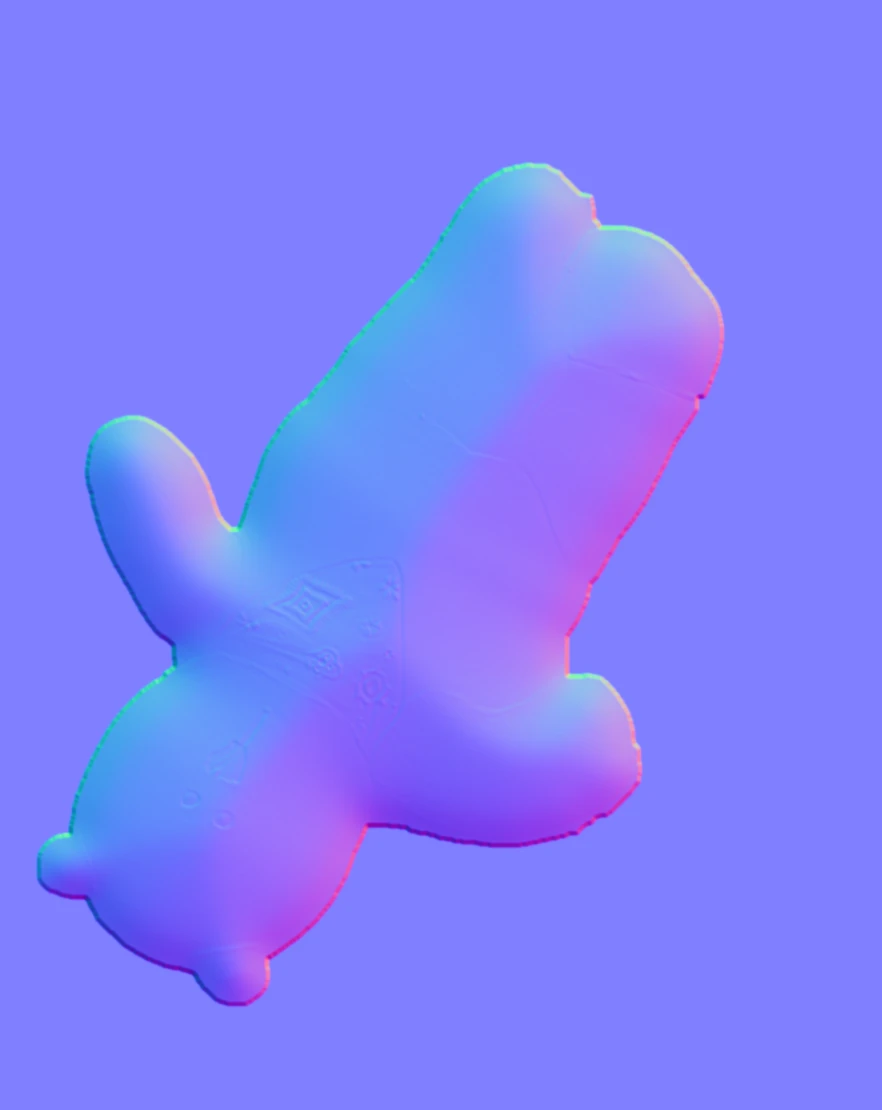
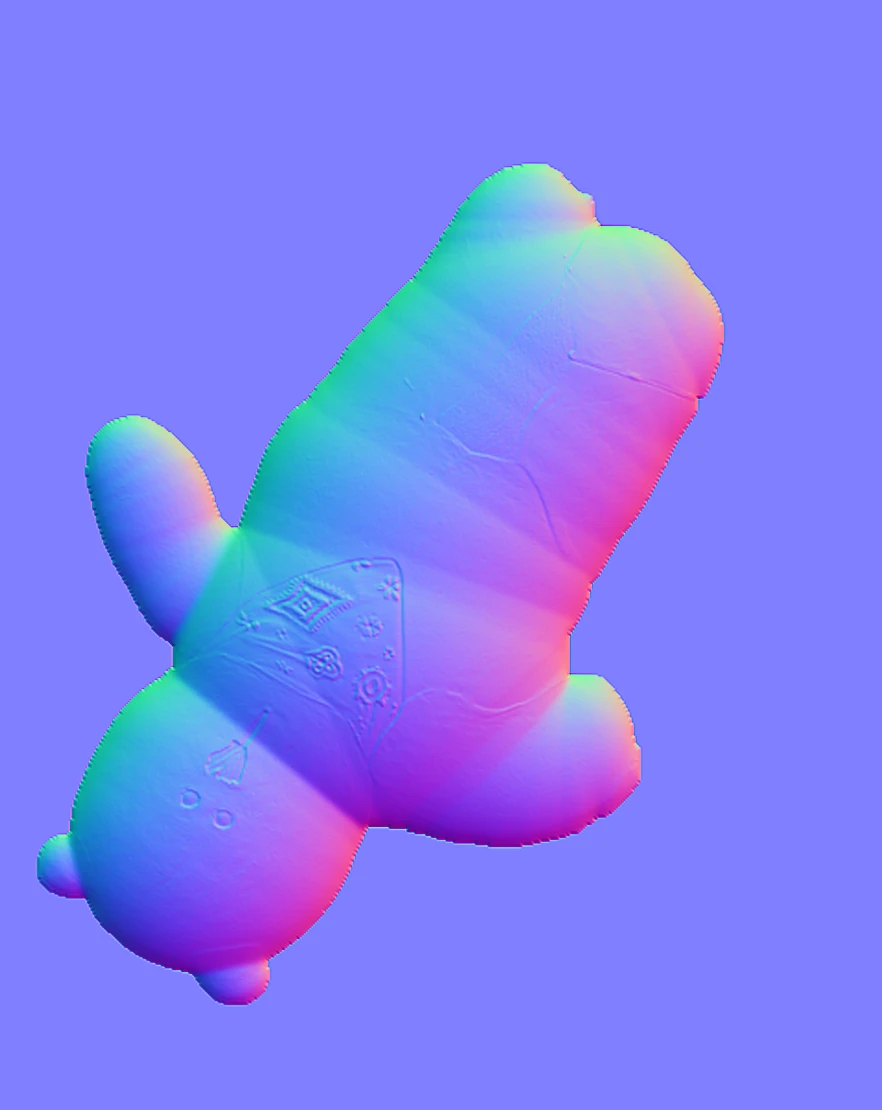
MUCH LOVED: 인형 입체를 둥근 단면으로 다시 만듦(머리는 공, 팔다리·귀는 원통, 인형마다 실제 두께)
Claude-Session: https://claude.ai/code/session_012fgrQSuz8bdMe6fYoW4Pch

Changed region(s): [[0.0306, 0.1225, 0.8265, 0.9189], [0.4286, 0.5207, 0.4898, 0.582]]

diff --git a/js/muchloved.js b/js/muchloved.js
@@ -192,11 +192,11 @@ function tex(u, color) {
   if (!texCache.has(u)) texCache.set(u, new Promise((r) => loader.load(u, (t) => { if (color) { t.colorSpace = THREE.SRGBColorSpace; t.anisotropy = 4; } r(t); }, undefined, () => r(null))));
   return texCache.get(u);
 }
-const DEPTH = 0.36, BACK = 0.3, MAX = THREE.MathUtils.degToRad(22), TURN = THREE.MathUtils.degToRad(42);
+const DEPTH = 0.36, BACK = 0.3, FRONT_K = 0.8, BACK_K = 0.7, MAX = THREE.MathUtils.degToRad(22), TURN = THREE.MathUtils.degToRad(42);
 
 // 셰이더: 표준 재질에 자국 지도(R 손때 · G 해진 곳 · B 눌림)와 누르는 자리(uPress)를 더함
 function wearMaterial(d) {
-  const m = new THREE.MeshStandardMaterial({ map: d.col, displacementMap: d.dep, normalMap: d.nor, displacementScale: DEPTH, alphaTest: 0.5, roughness: 0.82, metalness: 0, side: THREE.DoubleSide });
+  const m = new THREE.MeshStandardMaterial({ map: d.col, displacementMap: d.dep, normalMap: d.nor, displacementScale: d.dz, alphaTest: 0.5, roughness: 0.82, metalness: 0, side: THREE.DoubleSide });
   m.onBeforeCompile = (sh) => {
     sh.uniforms.uWear = { value: d.wearTex };
     sh.uniforms.uPress = { value: d.press };
@@ -241,12 +241,16 @@ function wearMaterial(d) {
 // 인형 (가까워지면 한 번 만들어 둠, 자국은 페이지를 떠날 때까지 남음)
 const dolls = new Map(); // id → doll (만들어진 것)
 const making = new Map(); // id → Promise
+let _th = null;
+const thick = () => _th || (_th = fetch(A + 'r/depth.json?v=1').then((r) => r.json()).catch(() => ({})));
 function makeDoll(id) {
   if (making.has(id)) return making.get(id);
   const p = (async () => {
-    const [col, dep, nor] = await Promise.all([tex(A + `r/${id}_color.webp`, 1), tex(A + `r/${id}_depth.png`), tex(A + `r/${id}_normal.webp`)]);
+    const [col, dep, nor, TH] = await Promise.all([tex(A + `r/${id}_color.webp`, 1), tex(A + `r/${id}_depth.png`), tex(A + `r/${id}_normal.webp`), thick()]);
     if (!col) return null;
     const asp = col.image.width / col.image.height;
+    // 인형마다 실제 두께(둥근 단면, tools/muchloved-relief/relief2.py) — 없으면 예전 값
+    const th = TH[id] || 0.18, dz = th * FRONT_K, bz = th * BACK_K;
     const wc = document.createElement('canvas'); wc.width = 256; wc.height = Math.round(256 / asp);
     const wx = wc.getContext('2d', { willReadFrequently: true }); wx.fillStyle = '#000'; wx.fillRect(0, 0, wc.width, wc.height);
     const wearTex = new THREE.CanvasTexture(wc);
@@ -257,11 +261,11 @@ function makeDoll(id) {
     const grid = new Uint8Array(mc.width * mc.height);
     for (let y = 0; y < mc.height; y++) for (let x = 0; x < mc.width; x++) if (md[(y * mc.width + x) * 4 + 3] > 200) { inside.push([(x + 0.5) / mc.width, 1 - (y + 0.5) / mc.height]); grid[y * mc.width + x] = 1; }
     const isIn = (u, v) => { const x = Math.floor(u * mc.width), y = Math.floor((1 - v) * mc.height); return x >= 0 && y >= 0 && x < mc.width && y < mc.height && grid[y * mc.width + x] === 1; };
-    const d = { id, mode: MODE[id], col, dep, nor, asp, wc, wx, wearTex, inside, isIn, press: new THREE.Vector4(0.5, 0.5, 0, asp), pull: new THREE.Vector4(0.5, 0.5, 0, 0), seeds: [], stats: { dirt: 0, tear: 0, flat: 0 }, touched: false, rz: 0, rollT: 0, hug: 0, hugT: 0, out: 0, outT: 0, call: 0, n: 0, m: 0, note: '' };
+    const d = { id, mode: MODE[id], col, dep, nor, asp, dz, bz, wc, wx, wearTex, inside, isIn, press: new THREE.Vector4(0.5, 0.5, 0, asp), pull: new THREE.Vector4(0.5, 0.5, 0, 0), seeds: [], stats: { dirt: 0, tear: 0, flat: 0 }, touched: false, rz: 0, rollT: 0, hug: 0, hugT: 0, out: 0, outT: 0, call: 0, n: 0, m: 0, note: '' };
     const mesh = new THREE.Mesh(new THREE.PlaneGeometry(asp, 1, 200, Math.max(64, Math.round(200 / asp))), wearMaterial(d));
     mesh.castShadow = true;
-    mesh.customDepthMaterial = new THREE.MeshDepthMaterial({ depthPacking: THREE.RGBADepthPacking, map: col, alphaTest: 0.5, displacementMap: dep, displacementScale: DEPTH });
-    const back = backMesh(col, dep, asp);
+    mesh.customDepthMaterial = new THREE.MeshDepthMaterial({ depthPacking: THREE.RGBADepthPacking, map: col, alphaTest: 0.5, displacementMap: dep, displacementScale: d.dz });
+    const back = backMesh(col, dep, asp, d.bz);
     const spin = new THREE.Group(); spin.add(mesh, back);
     const g = new THREE.Group(); g.add(spin); g.visible = false; scene.add(g);
     const box = SOFA.includes(id) ? sofaCatcher(asp, MODE[id] === 'pull') : frameBox(asp);
@@ -274,7 +278,7 @@ function makeDoll(id) {
 }
 
 // 뒷면: 앞면 사진을 흐리게(얼굴·무늬가 사라진 천 뒷모습) + 깊이를 뒤로 → 앞면과 가장자리에서 만나 닫힌 몸통
-function backMesh(col, dep, asp) {
+function backMesh(col, dep, asp, bz) {
   const im = col.image, w = 512, h = Math.round(512 / asp);
   const c = document.createElement('canvas'); c.width = w; c.height = h; const x = c.getContext('2d');
   x.filter = `blur(${Math.round(w * 0.022)}px) saturate(0.8) brightness(0.78)`; x.drawImage(im, 0, 0, w, h); x.filter = 'none';
@@ -288,7 +292,7 @@ function backMesh(col, dep, asp) {
   const pos = geo.attributes.position, uv = geo.attributes.uv;
   for (let i = 0; i < pos.count; i++) {
     const u = uv.getX(i), v = uv.getY(i), px = Math.round(u * sx), py = Math.round((1 - v) * sy);
-    const z = dd[(py * (sx + 1) + px) * 4] / 255; pos.setZ(i, -Math.pow(z, 0.85) * BACK);
+    const z = dd[(py * (sx + 1) + px) * 4] / 255; pos.setZ(i, -z * bz);
   }
   geo.computeVertexNormals();
   const m = new THREE.Mesh(geo, new THREE.MeshStandardMaterial({ map: bt, alphaTest: 0.5, roughness: 0.92, side: THREE.DoubleSide }));
@@ -388,7 +392,7 @@ let pi = 0;
 const tmpV = new THREE.Vector3();
 function puff(d, u, v, n, fall = false) {
   for (let k = 0; k < n; k++) {
-    tmpV.set((u - 0.5) * d.w, (v - 0.5) * d.h, DEPTH * 0.6); d.mesh.localToWorld(tmpV);
+    tmpV.set((u - 0.5) * d.w, (v - 0.5) * d.h, d.dz * 0.6); d.mesh.localToWorld(tmpV);
     pPos[pi * 3] = tmpV.x; pPos[pi * 3 + 1] = tmpV.y; pPos[pi * 3 + 2] = tmpV.z;
     pVel[pi].set((Math.random() - 0.5) * 0.02, fall ? -0.004 - Math.random() * 0.01 : 0.008 + Math.random() * 0.02, 0.01 + Math.random() * 0.02);
     pLife[pi] = 1; pi = (pi + 1) % PN;

diff --git a/muchloved.html b/muchloved.html
@@ -33,6 +33,6 @@
   <main id="ml"></main>
   <div id="ml-sleep" class="ml-sleep" hidden><p class="ml-sleep-t">00:00</p><p class="ml-sleep-h">들어 올리면 깨어나요</p></div>
   <video id="ml-cam" playsinline muted hidden></video>
-  <script type="module" src="js/muchloved.js?v=7"></script>
+  <script type="module" src="js/muchloved.js?v=8"></script>
 </body>
 </html>

diff --git a/tools/muchloved-relief/relief2.py b/tools/muchloved-relief/relief2.py
@@ -1,0 +1,60 @@
+# 인형 입체 v2 (2026-11-21): 둥근 단면으로 부풀리기
+# 예전(relief.py)은 거리 지도의 제곱근을 흐려서 가운데가 뾰족한 언덕(지붕 모양)이었음.
+# 이번엔 인형 안쪽 모든 점에 '그 자리에 들어가는 가장 큰 공'을 놓고 그 공들을 합친 높이를 씀:
+#   h(x)^2 = max_q ( d(q)^2 - |x-q|^2 )   (d = 테두리까지 거리)
+# → 머리는 공, 팔·다리·귀는 원통처럼 둥글고, 목·팔이 붙는 곳은 자연스럽게 잘록해짐.
+# 높이는 픽셀 단위 그대로라 폭과 두께의 비율이 실제 둥근 물체와 같음(scale = hmax / 이미지 높이).
+# 쓰는 법: python3 relief2.py assets/muchloved/r  (각 *_color.webp의 알파를 모양으로 씀, depth·normal·depth.json을 새로 씀)
+import cv2, numpy as np, sys, json, glob, os
+
+def maxplus_1d(f):
+    # 행마다 g[x] = max_q f[q] - (x-q)^2  (벡터 계산, 행 길이 ≤ 600)
+    n = f.shape[1]
+    x = np.arange(n, dtype=np.float32)
+    D = (x[:, None] - x[None, :]) ** 2            # (x, q)
+    out = np.empty_like(f)
+    for i in range(0, f.shape[0], 32):
+        blk = f[i:i + 32]                          # (b, q)
+        out[i:i + 32] = (blk[:, None, :] - D[None]).max(axis=2)
+    return out
+
+def inflate(mask):
+    d = cv2.distanceTransform(mask, cv2.DIST_L2, 5).astype(np.float32)
+    f = np.where(mask > 0, d * d, -1e9).astype(np.float32)
+    g = maxplus_1d(f)          # 가로
+    g = maxplus_1d(g.T).T      # 세로
+    return np.sqrt(np.clip(g, 0, None)) * (mask > 0)
+
+def run(folder):
+    scales = {}
+    for cp in sorted(glob.glob(os.path.join(folder, '*_color.webp'))):
+        id_ = os.path.basename(cp)[:-len('_color.webp')]
+        col = cv2.imread(cp, cv2.IMREAD_UNCHANGED)
+        H, W = col.shape[:2]
+        w = 480; h = int(round(w * H / W))
+        a = cv2.resize(col[:, :, 3], (w, h), interpolation=cv2.INTER_AREA)
+        m = (a > 127).astype(np.uint8)
+        m = cv2.morphologyEx(m, cv2.MORPH_OPEN, np.ones((3, 3), np.uint8))
+        z = inflate(m)
+        z = cv2.GaussianBlur(z, (0, 0), 1.6) * m       # 공 사이 이음매만 살짝 고르게
+        # 천의 주름·솔기: 사진 밝기의 잔결을 아주 조금
+        g = cv2.cvtColor(cv2.resize(col[:, :, :3], (w, h), interpolation=cv2.INTER_AREA), cv2.COLOR_BGR2GRAY).astype(np.float32) / 255
+        hp = g - cv2.GaussianBlur(g, (0, 0), 4)
+        zmax = float(z.max())
+        z = np.clip(z + hp * zmax * 0.025 * (z > zmax * 0.05), 0, None) * m
+        zmax = float(z.max())
+        scales[id_] = round(zmax / h, 4)               # 인형 높이 1에 대한 가장 두꺼운 곳(반쪽)
+        zn = z / zmax
+        dw = 512; dh = int(round(dw * H / W))
+        cv2.imwrite(os.path.join(folder, f'{id_}_depth.png'), (cv2.resize(zn, (dw, dh), interpolation=cv2.INTER_LINEAR) * 255).astype(np.uint8))
+        # 노멀: 실제 굴곡 그대로(앞면 두께 0.85배에 맞춤)
+        zs = cv2.resize(z * 0.85 * (W / w), (W, H), interpolation=cv2.INTER_CUBIC)
+        gx = cv2.Sobel(zs, cv2.CV_32F, 1, 0, ksize=3); gy = cv2.Sobel(zs, cv2.CV_32F, 0, 1, ksize=3)
+        n = np.dstack([-gx, gy, np.full_like(gx, 8)]); n /= np.linalg.norm(n, axis=2, keepdims=True)
+        nm = ((n * 0.5 + 0.5) * 255).astype(np.uint8)
+        cv2.imwrite(os.path.join(folder, f'{id_}_normal.webp'), cv2.cvtColor(nm, cv2.COLOR_RGB2BGR), [cv2.IMWRITE_WEBP_QUALITY, 90])
+        print(id_, W, H, 'thick', scales[id_])
+    json.dump(scales, open(os.path.join(folder, 'depth.json'), 'w'), indent=1)
+
+if __name__ == '__main__':
+    run(sys.argv[1])

diff --git a/CLAUDE.md b/CLAUDE.md
@@ -20,7 +20,7 @@
 | `bitssal.html` + `js/bitssal.js` | A-003 빛쌀 단독 스크롤 스토리 (캔버스 쌀알 1,900개, 15장면). **PART 1 순이의 이야기**(prologue→life→hunger→demand→street→spread→erased→boundary→mine→truth→light — **2026-11-18 소유자: 광주(1980 주먹밥) 장 'share'는 뺌**, 장 번호는 빛이 10, 글·체험 코드는 파일에 남겨 둠: 이야기·조작만, 기록·사진·영상 없음) → **PART 2 작품과 기록**(work: 조형물·사진·작품 영상 / records: 짧은 기록 7장 / archive). **장마다 읽기 → 체험 순서**(2026-11-14): 장 표지(번호·제목, 이때 쌀알·그림은 거의 꺼짐) → 이야기 카드(읽는 동안 얼굴만 그리고 장면 그림은 흐리게, 숫자·라벨 숨김, 조작·센서는 받지 않음) → 한 화면 띄우고 '체험' 카드(이때부터 조작). 예전 떠오르는 장 제목(chap-flash)은 없앰. **하나씩, 여유 있게**(소유자 요청): 장 표지는 번호→제목→선 차례로, 이야기 카드는 쌀 얼굴이 먼저 그려지고(1.4초) 문단이 함께 나타남(2문단 정도는 한 번에 괜찮음, 소유자), 읽을 시간(글자 수로 4~14초)이 지나야 체험이 열림(`runSeq`, 카드가 화면 밖이면 멈춤). **한 번에 하나만**: 얼굴을 그리는 동안 다른 쌀알·장면 그림은 거의 끔(97%), 장 표지 때도 거의 끔, 위로 지나간 장 표지·이야기 카드는 `.past`로 사라짐. **체험 카드는 바로 앞 이야기를 다 읽어야 열림**(`.card.play.locked` → `opened`, 잠긴 동안 조작·센서 안 받음, '위의 이야기를 다 읽으면 체험이 열려요'). 카드 사이 간격·장 끝 여백을 넓힘(종류가 바뀔 때 크게: 표지→이야기 0.55화면, 이야기→다음 0.9, 체험→다음 0.6, 다른 카드→이야기 0.6). **휴대폰(앱)만: 쌀알이 끊기지 않고 모양을 바꿔 흐름**(2026-11-16, PC는 예전대로): 첫 화면은 쌀알로 된 《빛쌀》 조형물(`sculpt`, 상단 머리와 아래 글 사이에 맞춤, 유리 테두리 `glassW` 안에서만) + 아래 글('한 톨의 쌀알에 얽힌 이야기 / 아흔 살 순이가 대구에서 겪은 일', 4개 언어) → 흩어짐(`dust`) → 아흔 살 순이 얼굴 → '한 그릇 더' → 흩어짐 → **장 제목(이때는 흩어진 채) → 제목이 지나가면 그 장의 모양(`SHAPE_OF`, `js/bitssal-shapes.js`) → 그 모양이 그대로 인물 얼굴로**(얼굴 없는 장은 글이 올라올 때까지 모양 유지) → 글 → 흩어짐 → 체험 카드가 아래에 붙으면(`.docked`) 체험. 모양: 밥상(table)·쌀독(jar)·쌀 한 톨(grain)·등잔(lamp, 켜지 않은)·지도(spread)·경찰(police, 이목구비 없음)·고무신(shoes)·밥 한 그릇(bowl)·7(seven)·주먹밥(riceball)·불꽃(flame). 모드 `mm`: title > face > play > shape > intro > dust. 다른 글('4년 뒤' 등)이 보이면 모양을 띄우지 않음. 장 표지 → 이야기 사이 0.9화면, 다른 글 → 이야기도 0.9화면. **글 뒤 어두운 바탕·테두리 없음**(글자 그림자만, 붙은 체험 카드 아래만 옅은 그라데이션). **휴대폰 체험 바뀜**(`MOB`, 문구 `mia`): ①밥상 = 폰을 주걱처럼 숙였다 들면(`watchScoop`, 기울기 tiltY 흔들림) 가운데 솥에서 밥을 떠 그릇에 담음(3번에 한 그릇, 솥을 눌러도 됨) ②쌀독 = 큰 쌀독만, 흔들어 털면 바닥에 쌀이 쌓임 ④밤 = 새벽에 오빠 얼굴 겹치던 것 뺌 ⑥낮은 목소리 = 체포영장 같은 옛 문서(일러스트, '문서는 이해를 돕기 위한 일러스트')가 먼지에 덮여 있다가 후 불기(마이크)·문지르기로 드러남. **광산부터 줄임**: 광산(손전등)·주먹밥(돌리기) 체험 카드 없음, 빛은 누르기·들어 올리기만(마이크·AR 버튼 뺌), 7월은 그대로. 작품 장 조형물은 기울이면 흐르는 속도만 바뀜(밀림·흔들림 없음). **기억을 위한 한 문장**: 남기면 글자 하나하나가 입력칸에서 불빛처럼 떠올라 빛 장면 하늘(`.mem-sky`, 최근 5문장)에 머묾(PC도 같음, 캔버스 빛 점은 뺌). **마지막 '전시 행성 나가기'**(예전 'ARTMOS 행성계로 돌아가기'가 #story의 pointer-events 때문에 안 눌렸음): 앱 안이면 `postMessage({type:'artmos:close-exhibit'})` → `app.js`가 전시를 닫음, 웹이면 홈으로. **스크롤 끊김 줄이기**(2026-11-17): 쌀알은 색·크기별로 한 번 그려 둔 그림(`grainSprite`)을 회전해서 찍기만 함(매 프레임 도형 1,900개를 새로 그리지 않음, 다 찍은 뒤 `gReset()`), 화면 밖·안 보이는 쌀알은 건너뜀, 흩어진 쌀알은 2/3만, 휴대폰 캔버스는 1.5배 해상도, 주소창 때문에 높이만 조금 바뀌는 resize는 무시(캔버스·카드 다시 배치 안 함), 휴대폰은 화면 전체 필름 입자 애니메이션 멈춤·글자 그림자 한 겹. 측정(휴대폰 크기, CPU 4배 느리게): 쌀알 그리기 JS 프레임당 약 21ms → 11ms. **스크롤 속도 맞춤**(2026-11-17 소유자: 빈칸 줄이기): 휴대폰만 카드 사이 빈칸을 줄임(`GAP_M`: 장 표지→얼굴 이야기 0.35·얼굴 없는 이야기 0.55, 이야기→다음 0.4, 체험→다음 0.4, 체험 뒤 0.6, 기본 간격 0.07, 장면 기본 길이 ×0.75, 얼굴 자리 `.st-stage` 82→70svh — 얼굴 크기는 화면 폭으로 정해져 그대로) → 휴대폰 전체 길이 79화면 → 약 56화면(390px), PC는 그대로 68화면. 붙은 체험 카드는 붙기 전 높이(`_natH`)로 배치해 아래가 들썩이지 않게. 장면·카드 위치는 배치할 때 한 번 재 두고(`GEO`, `cacheGeo()`, `rect(el)`) 프레임마다는 scrollY만 빼서 씀(매 프레임 getBoundingClientRect 17곳 → 0). 쌀알 움직임은 프레임 길이로 보정(`FR`, 120Hz·느린 프레임에서도 같은 빠르기)하고 빨리 스크롤하면(`SCR`, 1.5화면/초면 최대) 더 빨리 모여 글을 바로 따라옴. 진행 막대는 width 대신 transform scaleX. 첫 장면(prologue)은 기본 길이를 줄이지 않음(줄이면 아래 글이 올라가 조형물이 상단 머리와 겹침). 붙은 체험 카드는 가로 스크롤 금지(`overflow-x: hidden`, 예전 그라데이션 조각이 카드 밖으로 나가 아이폰에서 글이 옆으로 밀렸음), 바탕 그라데이션은 카드 안에. 맨 위·아래에서 당길 때 출렁임은 `overscroll-behavior-y: none`. **얼굴·글 한 화면 + 장 모양 머물기**(2026-11-18 소유자): 얼굴 자리 `.st-stage` 70→44svh, 얼굴 크기는 `min(얼굴 자리 높이/2.2, 화면 폭×0.42)`라 얼굴(위아래 약 2배)이 자리 안에 맞고 아래 글 상자와 한 화면에 같이 보임. 장 제목이 지나 나온 장 모양은 적어도 `SHAPE_MIN`(2.4초) 머문 뒤 얼굴·글로 바뀜(빨리 내려도 한 번은 보여 줌, 장마다 한 번), 모양→얼굴 바뀜은 약 1.4초로 천천히, 장 표지→얼굴 이야기 간격 0.35→0.5. **상단 바 위치(2026-11-18)**: 앱 안 전시 틀(iframe)에서는 아이폰이 상태 표시줄 높이(`env(safe-area-inset-top)`)를 0으로 줘서 상단 바가 시계 줄과 겹쳤음 → 빛쌀은 `--sat` 변수로 상단 바·진행 막대·목차·HUD 위치를 잡고, 앱 안 아이폰이면 `bitssal.js` 첫머리가 화면 높이로 어림(852 이상 59px·812 이상 47px·그 밖 20px), 앱이 `postMessage({type:'artmos:safe', top})`로 정확한 값을 보내면 그걸 씀(`app.js` 전시 틀 load 때 보냄 — 앱 틀이라 다음 앱 빌드부터). `bitssal.html` viewport에 `viewport-fit=cover`. **얼굴 없는 이야기엔 물건**(2026-11-18 소유자): 휴대폰에서 얼굴 없는 이야기 카드(밤·번짐·낮은 목소리·한 그릇 더)도 얼굴 자리(`.st-stage`, `data-obj`)를 두고 그 장의 물건(`SHAPE_OF`: 등잔·지도·경찰·밥그릇)을 얼굴처럼 그림(`objPoints`: 높이 2·폭 2.1에 맞춤, 장 모양에서 그대로 옮겨 감). **쌀독 체험**: 털어낸 만큼 독 안 쌀알 수가 줄어 40번 털면 빈 독(예전엔 바닥으로 눌리기만 해서 차 보였음). **대구까지 거리**(번짐 체험, 휴대폰): 위치를 받으면 번짐 약도 위 '지금 나' 자리에서 대구까지 쌀알 360개가 2.5초에 걸쳐 한 줄로 이어지고 가운데 km 표시, 대구 고리가 깜빡임(`geoTrail`, `geoXY` — 지역 덩어리에 맞춘 대략의 투영, 지도 밖·해외면 대구에서 그 방향 지도 끝), 결과 글 끝에 '약도 · 실제 위치와 조금 다를 수 있어요'(4개 언어 `GEO_T`). 위치는 기기 안에서만 씀. 시험 `#debug`면 `window.__bs`(state). **전체 점검(2026-11-18)**: 빛쌀 번호 A-003 → **A-002**(닫힌 전시를 빼고 다시 매긴 번호, `bitssal.js` 맨 위 `NUM`·`bitssal-scenes.js` p0·`bitssal.html` 제목 — 번호가 바뀌면 셋 다), 탭 아이콘(`artmos-mark.svg`) 넣어 favicon 404 없앰, **일본어·중국어 줄바꿈**: `word-break: keep-all`(한국어용)이 띄어쓰기 없는 일본어·중국어 문단을 한 줄로 만들어 휴대폰에서 화면이 옆으로 137px 넘쳤음 → `html:lang(ja|zh)`면 글자 단위 줄바꿈(`bitssal.css`·`style.css` 끝, 최초의 방 등 전시 페이지도 같이). 4개 언어×휴대폰·PC로 모든 장을 내려가며 체험을 열고 누르는 자동 점검: 오류 0, 카드 겹침 0, 가로 넘침 0. **휴대폰 상단 바 자동 숨김**(2026-11-17 소유자): 아래로 24px 넘게 스크롤하면 머리·진행 막대가 위로 숨고(`body.top-hide`), 위로 14px 올리면 다시 나옴. 맨 위(120px 안)·목차 열린 동안은 늘 보임. PC는 그대로. 측정(390px, CPU 4배 느리게, 30화면 스크롤): 스크립트 시간 −14%, 레이아웃 횟수 1,019 → 약 480. **휴대폰 배치**(2026-11-14): 이야기 카드 위쪽은 투명한 얼굴 자리(`.st-stage`, 46vh)로 비우고 글은 아래 상자(`.st-box`)에 — 쌀 얼굴이 그 자리에 그려져 카드와 함께 스크롤됨(작은 초상은 숨김). 체험 카드는 화면 아래에 고정(`.docked`, 다음 카드·다음 장이 보이기 전에 내려감), 쌀알 무대 중심은 화면 38% 높이. 글 카드엔 어두운 바탕, 큰 연도 숫자는 휴대폰에서 숨김, 입장 화면·상단 머리는 뒤가 비치지 않게. **내레이션 녹음 붙임**(2026-11-18): 한국어 12개 `assets/narration/ko/ko_<키>.mp3`(prologue·life·hunger·demand·street·spread·erased·boundary·mine·truth_1·truth_2·light, 128kbps 모노, 합계 4.4MB, 소유자가 보낸 01~12를 이 순서로 — 11번이 7월 두 번째 이야기인지 소유자 확인 필요). 이야기 카드에 `data-nk`(장 이야기가 둘이면 `_1`·`_2`). 소리를 켠 사람에게만, 이야기 글이 나타나면(`c._shown`) 그 카드 녹음을 틀고 배경 소리는 0.35로 낮춤, 글 상자가 화면을 벗어나거나 다른 이야기로 가거나 소리를 끄거나 영상을 틀면 멈춤, 끝까지 들은 카드는 다시 틀지 않음. **녹음이 끝나야 체험이 열림**(`_narrWait`, 멈춰도 길이+4초 뒤엔 열림). 아이폰은 첫 터치 때 0.1초 무음을 틀어 재생을 풀어 둠(이미 읽는 중이면 건드리지 않음, 막히면 다음 터치 때 다시). 얼굴이 보일 때 파일을 미리 받음. 다른 언어는 `NARR_LANGS`에 넣고 `en/en_life.mp3`처럼 넣으면 됨. 시험: `#debug`면 `window.__narr`. 예전 기기 음성 `js/bitssal-narrator.js`는 안 씀(남겨 둠). 이야기 문단은 하나씩 나타남, 가장자리 어둡게+필름 입자. 렌더 루프는 오류가 나도 멈추지 않게 `draw()`를 try로 감쌈. 끝부분에 모바일 전용 블록(흔들기·AR) |
 | `sansa.html` + `js/sansa.js` + `css/sansa.css` | **A-004 산사, 잠시 머물다** 3D 온라인 산사 (Three.js, 기획 제안 프로토타입, 조계종 협력 가정·협의 전 — 실제 주최로 표시하지 말 것, 로고·공식 문구 사용 금지). 산문 → 돌길 마당(석등) → 계단 → 법당 '고요당'(VALIX 현판·후불벽 무늬·불상·초·연등·방석). 캐릭터(작은 방랑자 스님, 이름표는 앱 항해명 `valix-me`)를 뒤에서 따라감. 휴대폰: 앞으로 기울이면 걷기·몸을 돌리면 방향(나침반)·흔들면 목탁·엎었다 들면 절·화면 보며 돌리면 염주·방석에 앉아 엎어 두면 좌선(들면 종). PC: WASD/방향키·끌기. 하단 합장·절하기·목탁·염주·앉기, 상단 나가기·소리·설정(기울여 걷기/나침반 끄기, 자세 다시 맞추기), 염불 듣기('나무아미타불'을 목소리 합성 — 성대 톱니파+포먼트 필터, 세 사람 합창, 음절마다 목탁, 화면에 음절 자막). 소리: 목탁은 나무 울림 합성, 압축기·리미터로 휴대폰 스피커 음량 확보, iPhone 무음 스위치 대응(`navigator.audioSession='playback'`+무음 오디오), 앱 전환·권한 창 뒤 자동 재개. `#debug`면 `window.__snd`(소리 테스트용). 접속자 수·다른 사람 아바타는 서버가 필요해 아직 없음. `#debug`면 `window.__st` 노출 |
 | `silnat.html` + `js/silnat.js` + `css/silnat.css` + `js/silnat-art.js` | **c007 A-003 실낱 같은 희망(김바늘, 작가 동의 받음, 2026-11-17 공개, 무료)** — `data/cells.json` c007(url·month 2026-11·poster·logo 칸), 포스터 `assets/posters/c007-*`, 월간 호 2026-11·2026-12.  스크롤 한 줄 붉은 실 전시, **센서 없음**. 첫 장면은 원작 Take 1·2(작가 허락, 원작 사진의 선을 벡터로 옮김 `assets/silnat/take1-ink.svg`·`take2-ink.svg`, 변환 `tools/silnat-trace.py` — 고해상도 원본 받으면 다시 뽑기)를 스티키로: 선이 나타남 → 숨 쉼(인물만 `clip-path`로 떼어 scale, 머리카락 흔들림 필터는 무거워서 뺌) → 고개를 듦(Take 1→2 겹쳐 바뀜) → 구석의 붉은 실. 그 실 끝에서 진짜 실(두 가닥 꼬임·보풀·그림자, `redThread`)이 이어져 다섯 사람(가상의 인물·전시 문안: 정옥·민재·영호·란·서윤) 장면 그림(`sceneSVG`, 검은 실 스케치·인물 이목구비 없음)을 차례로 감고 다시 그 방 발치까지 감. 실은 가장자리를 따라 내려가 장면 사이 빈 곳에서만 건넘(`route`), 가로로 가거나 감길 땐 늦게 나타나 그 자리에 머묾. 실은 280px 조각 SVG로 나눠 제자리에 두고 보이는 조각만, 바늘이 지나는 조각에만 mask. 매듭 짓기(선택), 아직 수놓이지 않은 장(Take 3~5), PART 2 작품 정보·크레딧, 끝에 109·마들랜 한 줄. 문서 `docs/exhibitions/c007-silnat/`. 한·영·중·일(글은 `silnat.js`의 `TEXT`, 외국어엔 장면마다 배경 한 줄, 109 대신 '가까운 상담 기관') |
-| `muchloved.html` + `js/muchloved.js` + `css/muchloved.css` | **c008 MUCH LOVED(김규진, 작가 계약·3D 공개 포함·사진 사용 허락, 2026-11-18 공개, 무료)** — 애착 인형 조각 15점. `data/cells.json` c008(url·month 2026-11,2026-12), 월간 호 2026-11 표지(첫 장)·2026-12, 포스터·로고 `assets/posters/c008-*`(소유자가 준 소파 설치 사진·손글씨 로고, 포스터는 3:4로 위아래를 조금 자름). **v3(2026-11-19 소유자: 3D를 더 적극적으로, 옆으로 넘기지 말고 쭉 스크롤)**: 화살표·좌우 넘기기 없이 **세로 스크롤 하나**. 0 쥐기(꾹 누르면 심장 박동·글 6줄, '들어가기'에서 동작 권한) → 장 표지 → 레진 인형 10점이 한 장면씩(`.dsec` 230svh, 붙박이 칸 `.stk`를 따라 3D가 함께 오르내림, 두 인형이 겹쳐 지나갈 때도 둘 다 그림): 액자 7(SNOW·DINO·FLOOPY·HOBBY·FU FU·PEANUT·MOON) → 서랍(TOMMY 사진, **내려갈수록 서랍이 열림** + 몸 쪽으로 당겨 세우기) → 소파 3(JAKE·PEANUT·MAS, 내려갈수록·기울이면 쿠션이 벌어짐) → 두 손으로 감싸기(두 손가락 이상·꾹, 덤으로 카메라 밝기) → 은빛 바닥(알루미늄 4 사진, 쓸면 **입김처럼 흐렸다 다시 맑아짐**·기울이면 빛, '금속은 닳지 않아요') → 잠들기(엎어 두기·손바닥 얹기·버튼) → 5 **당신이 남긴 자국**(인형마다 손때·해진 곳·납작해진 곳 %) + 나의 인형 이름표(`valix-muchloved-tag`) → 6 맺음. **입체를 더 깊게(2026-11-20 소유자: 다소 평면적)**: 인형마다 **뒷면**(`backMesh`: 앞면 사진을 흐리게 해 얼굴 없는 천 뒷모습 + 깊이를 꼭짓점으로 옮겨 뒤로 0.3, 앞면과 가장자리에서 만나 닫힌 몸통, 앞면 깊이 0.36), 스크롤로 들어올 때·나갈 때 **옆으로 약 77° 돌며** 두께·뒷모습이 보이고, 머무는 동안 기울기·마우스로 ±42° 돎(액자째로는 ±10°만 → 시차). 액자 인형은 **3D 액자 상자**(`frameBox`: 흰 틀 깊이 0.62·안쪽 짙은 판·핀 조명 웅덩이), 소파 인형은 **3D 천 쿠션**(`sofaCatcher`→`pillow` 등받이·앉는 자리, PEANUT은 앞 쿠션 사이에서 귀만 보이다 끌어 올림 — 예전 CSS 쿠션 `.cush`는 안 씀). **스포트라이트**(`spot`) 하나가 화면 가운데 인형을 따라가며 실제 그림자(앞·뒷면 모두 `customDepthMaterial`로 투명한 곳 빼고)를 액자 안·쿠션에 드리움, 휴대폰 그림자 지도 1024. 인형 입체 체험: 앞면 입체(`assets/muchloved/r/<id>_color·_depth·_normal`) + 인형마다 **자국 지도** 캔버스(256px, R 손때·G 해진 곳·B 눌림/반들)를 `MeshStandardMaterial.onBeforeCompile`이 읽음(B는 오목+그늘+거칠기 낮춤=반들, uPull로 잡아당김). **인형마다 체험 하나씩(2026-11-19 소유자: 각 인형별로 다른 체험, 하나씩만, `MODE`)**: SNOW 문지르기(손때) · DINO 후~ 불기(마이크·버튼, 손때 많은 곳부터 해진 곳이 30%까지 자라며 비어져 나온 솜·솜 입자) · FLOOPY 꾹 누르기(300ms 넘게 가만히, 1.2초면 최대, 놓으면 조금 납작하게 남음) · HOBBY 흔들기(센서·버튼, 해진 틈에서 솜이 떨어짐) · FU FU 꼭 껴안기(두 손가락 이상 또는 꾹, 인형이 폭 눌리며 1.1초마다 박동) · PEANUT(액자) 톡톡 두드리기(두드린 자리가 반들반들) · MOON 잡아당기기(끌면 천이 늘어나고 놓으면 돌아옴, 세게 당기면 실밥이 터져 솜) · JAKE 기울이기(PC는 끌기, 소파 위를 구르며 아래쪽에 먼지 자국) · PEANUT(소파) 꺼내기(앞 쿠션 `.cush.f` 틈에서 위로 끌어 올림) · MAS 이름 부르기(마이크 `micLevel`·버튼, 목소리에 몸을 돌리고 빛이 밝아짐). 버튼은 그 체험에 필요한 것만(불기·흔들기·부르기), 자국이 남는 체험만 작은 '원래대로'. 아래 글줄(`.d-meter`)과 5장 '당신이 남긴 자국'에 인형마다 다른 기록(손때 %·○번 눌렀어요·○초 동안 안았어요·터진 실밥 ○곳·찾았다 등). 인형이 바뀌면 지난 인형의 솜 입자는 치움. **소리(2026-11-19 소유자: 체험 소리와 배경음)** `js/muchloved-sound.js`(`snd`, 음원 파일 없이 Web Audio 합성): 배경음 = 직접 지은 8마디 자장가 오르골 + 부드러운 화음 + 방 공기, 장마다 바뀜(intro 박동만 · wall 맑은 오르골 76bpm · drawer 느리게 · sofa 한 옥타브 낮고 따뜻하게 · floor 금속 종 소리로 바뀌고 태엽이 풀리듯 점점 느려짐 · sleep 거의 고요 · end 다시 밝게). 체험 소리 = 문지르기 천 스침(`rustle`, 문지른 만큼) · 불기 바람(`wind`)+실밥 찢어지는 소리+솜 · 누르기 눌림/풀림 · 흔들기 솜 털림 · 껴안기·박동마다 심장 소리(`beat()`가 냄) · 두드리기 톡 · 잡아당기기 천 삐걱(`creak`, 당긴 만큼 높아짐)+실밥 끊김 · 굴리기 소파 구르는 소리(`rumble`)·쿵 · 꺼내기 쿠션 끽끽(`squeak`)+뽁 · 부르기 대답하는 종(그 뒤 1.2초는 마이크를 듣지 않아 스스로 다시 걸리지 않게) · 서랍 미끄러짐·덜컥·종 · 쿠션 벌어지는 천 소리 · 금속 입김·작은 종 · 잠에서 깨는 종 · 바느질 한 땀 · 원래대로 종. 첫 터치에 켜지고(`xpace-sound=off`면 그대로 꺼짐), 상단 '소리 켜짐/꺼짐' 버튼(`#ml-snd`), 아이폰 무음 스위치·앱 전환 대응. 시험 `__ml.snd.level()`(출력 크기). 인형 위에서 시작한 터치만 스크롤 대신 체험(`touchstart` preventDefault), 그 밖은 그대로 스크롤. 인형마다 앞세우는 동작(`FOCUS`)만 다르고 모든 동작은 어디서나 됨. **'원래대로'** 버튼으로 언제든 작품 원래 모습, 크레딧에 '손때·해진 곳·눌림은 이 화면에만 그려지는 효과이며 작품의 실제 상태가 아님'. 자국은 페이지를 떠나면 사라짐(저장 안 함). **붙박이(sticky)가 안 되던 문제**: `body`의 `overflow-x: hidden`이 스크롤 상자를 만들어 sticky가 풀렸음 → `overflow-x: clip`. 아이폰 웹은 진동 대신 화면 가장자리 박동(`beat`). 소파 사진 속 캐릭터 장난감은 쓰지 않음. 입체 다시 만들기 `tools/muchloved-relief/`. 문서 `docs/exhibitions/c008-muchloved/`. **한·영·중·일(2026-11-19)**: 화면 문구는 `js/muchloved-i18n.js`의 `t('한국어 문장')`(키 = 한국어, 없으면 한국어), 작가 약력·크레딧은 키 `BIO`·`CREDIT`, 외국어 작가명 Kim Gyuzin, 상단에 언어 선택. 목록·앱 카드 번역은 `data/i18n.json` cells.c008(이때 `data.js`가 `summary`도 번역하게 함, v=37 — 앱 틀 안의 data.js는 다음 앱 빌드부터). `#debug`면 `window.__ml` |
+| `muchloved.html` + `js/muchloved.js` + `css/muchloved.css` | **c008 MUCH LOVED(김규진, 작가 계약·3D 공개 포함·사진 사용 허락, 2026-11-18 공개, 무료)** — 애착 인형 조각 15점. `data/cells.json` c008(url·month 2026-11,2026-12), 월간 호 2026-11 표지(첫 장)·2026-12, 포스터·로고 `assets/posters/c008-*`(소유자가 준 소파 설치 사진·손글씨 로고, 포스터는 3:4로 위아래를 조금 자름). **v3(2026-11-19 소유자: 3D를 더 적극적으로, 옆으로 넘기지 말고 쭉 스크롤)**: 화살표·좌우 넘기기 없이 **세로 스크롤 하나**. 0 쥐기(꾹 누르면 심장 박동·글 6줄, '들어가기'에서 동작 권한) → 장 표지 → 레진 인형 10점이 한 장면씩(`.dsec` 230svh, 붙박이 칸 `.stk`를 따라 3D가 함께 오르내림, 두 인형이 겹쳐 지나갈 때도 둘 다 그림): 액자 7(SNOW·DINO·FLOOPY·HOBBY·FU FU·PEANUT·MOON) → 서랍(TOMMY 사진, **내려갈수록 서랍이 열림** + 몸 쪽으로 당겨 세우기) → 소파 3(JAKE·PEANUT·MAS, 내려갈수록·기울이면 쿠션이 벌어짐) → 두 손으로 감싸기(두 손가락 이상·꾹, 덤으로 카메라 밝기) → 은빛 바닥(알루미늄 4 사진, 쓸면 **입김처럼 흐렸다 다시 맑아짐**·기울이면 빛, '금속은 닳지 않아요') → 잠들기(엎어 두기·손바닥 얹기·버튼) → 5 **당신이 남긴 자국**(인형마다 손때·해진 곳·납작해진 곳 %) + 나의 인형 이름표(`valix-muchloved-tag`) → 6 맺음. **입체를 더 깊게(2026-11-20 소유자: 다소 평면적)**: 인형마다 **뒷면**(`backMesh`: 앞면 사진을 흐리게 해 얼굴 없는 천 뒷모습 + 깊이를 꼭짓점으로 옮겨 뒤로 0.3, 앞면과 가장자리에서 만나 닫힌 몸통, 앞면 깊이 0.36), 스크롤로 들어올 때·나갈 때 **옆으로 약 77° 돌며** 두께·뒷모습이 보이고, 머무는 동안 기울기·마우스로 ±42° 돎(액자째로는 ±10°만 → 시차). 액자 인형은 **3D 액자 상자**(`frameBox`: 흰 틀 깊이 0.62·안쪽 짙은 판·핀 조명 웅덩이), 소파 인형은 **3D 천 쿠션**(`sofaCatcher`→`pillow` 등받이·앉는 자리, PEANUT은 앞 쿠션 사이에서 귀만 보이다 끌어 올림 — 예전 CSS 쿠션 `.cush`는 안 씀). **스포트라이트**(`spot`) 하나가 화면 가운데 인형을 따라가며 실제 그림자(앞·뒷면 모두 `customDepthMaterial`로 투명한 곳 빼고)를 액자 안·쿠션에 드리움, 휴대폰 그림자 지도 1024. 인형 입체 체험: 앞면 입체(`assets/muchloved/r/<id>_color·_depth·_normal`) + 인형마다 **자국 지도** 캔버스(256px, R 손때·G 해진 곳·B 눌림/반들)를 `MeshStandardMaterial.onBeforeCompile`이 읽음(B는 오목+그늘+거칠기 낮춤=반들, uPull로 잡아당김). **인형마다 체험 하나씩(2026-11-19 소유자: 각 인형별로 다른 체험, 하나씩만, `MODE`)**: SNOW 문지르기(손때) · DINO 후~ 불기(마이크·버튼, 손때 많은 곳부터 해진 곳이 30%까지 자라며 비어져 나온 솜·솜 입자) · FLOOPY 꾹 누르기(300ms 넘게 가만히, 1.2초면 최대, 놓으면 조금 납작하게 남음) · HOBBY 흔들기(센서·버튼, 해진 틈에서 솜이 떨어짐) · FU FU 꼭 껴안기(두 손가락 이상 또는 꾹, 인형이 폭 눌리며 1.1초마다 박동) · PEANUT(액자) 톡톡 두드리기(두드린 자리가 반들반들) · MOON 잡아당기기(끌면 천이 늘어나고 놓으면 돌아옴, 세게 당기면 실밥이 터져 솜) · JAKE 기울이기(PC는 끌기, 소파 위를 구르며 아래쪽에 먼지 자국) · PEANUT(소파) 꺼내기(앞 쿠션 `.cush.f` 틈에서 위로 끌어 올림) · MAS 이름 부르기(마이크 `micLevel`·버튼, 목소리에 몸을 돌리고 빛이 밝아짐). 버튼은 그 체험에 필요한 것만(불기·흔들기·부르기), 자국이 남는 체험만 작은 '원래대로'. 아래 글줄(`.d-meter`)과 5장 '당신이 남긴 자국'에 인형마다 다른 기록(손때 %·○번 눌렀어요·○초 동안 안았어요·터진 실밥 ○곳·찾았다 등). 인형이 바뀌면 지난 인형의 솜 입자는 치움. **소리(2026-11-19 소유자: 체험 소리와 배경음)** `js/muchloved-sound.js`(`snd`, 음원 파일 없이 Web Audio 합성): 배경음 = 직접 지은 8마디 자장가 오르골 + 부드러운 화음 + 방 공기, 장마다 바뀜(intro 박동만 · wall 맑은 오르골 76bpm · drawer 느리게 · sofa 한 옥타브 낮고 따뜻하게 · floor 금속 종 소리로 바뀌고 태엽이 풀리듯 점점 느려짐 · sleep 거의 고요 · end 다시 밝게). 체험 소리 = 문지르기 천 스침(`rustle`, 문지른 만큼) · 불기 바람(`wind`)+실밥 찢어지는 소리+솜 · 누르기 눌림/풀림 · 흔들기 솜 털림 · 껴안기·박동마다 심장 소리(`beat()`가 냄) · 두드리기 톡 · 잡아당기기 천 삐걱(`creak`, 당긴 만큼 높아짐)+실밥 끊김 · 굴리기 소파 구르는 소리(`rumble`)·쿵 · 꺼내기 쿠션 끽끽(`squeak`)+뽁 · 부르기 대답하는 종(그 뒤 1.2초는 마이크를 듣지 않아 스스로 다시 걸리지 않게) · 서랍 미끄러짐·덜컥·종 · 쿠션 벌어지는 천 소리 · 금속 입김·작은 종 · 잠에서 깨는 종 · 바느질 한 땀 · 원래대로 종. 첫 터치에 켜지고(`xpace-sound=off`면 그대로 꺼짐), 상단 '소리 켜짐/꺼짐' 버튼(`#ml-snd`), 아이폰 무음 스위치·앱 전환 대응. 시험 `__ml.snd.level()`(출력 크기). 인형 위에서 시작한 터치만 스크롤 대신 체험(`touchstart` preventDefault), 그 밖은 그대로 스크롤. 인형마다 앞세우는 동작(`FOCUS`)만 다르고 모든 동작은 어디서나 됨. **'원래대로'** 버튼으로 언제든 작품 원래 모습, 크레딧에 '손때·해진 곳·눌림은 이 화면에만 그려지는 효과이며 작품의 실제 상태가 아님'. 자국은 페이지를 떠나면 사라짐(저장 안 함). **붙박이(sticky)가 안 되던 문제**: `body`의 `overflow-x: hidden`이 스크롤 상자를 만들어 sticky가 풀렸음 → `overflow-x: clip`. 아이폰 웹은 진동 대신 화면 가장자리 박동(`beat`). 소파 사진 속 캐릭터 장난감은 쓰지 않음. 입체 다시 만들기 `tools/muchloved-relief/`. **인형 모양 v2(2026-11-21 소유자: 인형 형태가 이상함)**: `relief2.py`(`python3 tools/muchloved-relief/relief2.py assets/muchloved/r`, 컬러 webp의 알파만으로 다시 뽑음) — 예전 relief.py는 거리 지도 제곱근을 흐려 가운데가 뾰족한 지붕 모양이었음 → 인형 안 모든 점에 들어가는 가장 큰 공을 합친 높이(`h² = max(d(q)² − |x−q|²)`)라 머리는 공·팔다리·귀는 원통, 목·팔 붙는 곳은 잘록. 두께는 인형마다 실제 비율(`r/depth.json`, 높이 1 기준 반쪽 두께) × 앞 0.8·뒤 0.7(`FRONT_K`·`BACK_K`, 인형 객체 `dz`·`bz`). 문서 `docs/exhibitions/c008-muchloved/`. **한·영·중·일(2026-11-19)**: 화면 문구는 `js/muchloved-i18n.js`의 `t('한국어 문장')`(키 = 한국어, 없으면 한국어), 작가 약력·크레딧은 키 `BIO`·`CREDIT`, 외국어 작가명 Kim Gyuzin, 상단에 언어 선택. 목록·앱 카드 번역은 `data/i18n.json` cells.c008(이때 `data.js`가 `summary`도 번역하게 함, v=37 — 앱 틀 안의 data.js는 다음 앱 빌드부터). `#debug`면 `window.__ml` |
 | `screen.html` + `js/screen.js` · `remote.html` + `js/remote.js` · `js/screen-link.js` · `js/qr.js` · `css/screen.css` | **ARTMOS SCREEN — 큰 화면 + 휴대폰 컨트롤러(2026-11-19 소유자: 럭키그랩(luckygrab.joystream.co.kr)처럼 큰 화면을 폰으로 조작, 앱 하단 탭 추가)**. 기술·디자인은 직접 만든 것(럭키그랩의 JoyStream 특허 방식·브랜드·가챠는 쓰지 않음, 흐름만 참고: QR 스캔 → 폰 조이스틱 → 결과는 폰에만). **큰 화면** `screen.html`(사이니지·노트북·데스크톱 브라우저, 가로·세로 모두): 아무도 없으면 가운데 큰 QR + 입장 숫자 4자리 + 3단계 안내, 누가 들어오면 오른쪽 위 작은 QR·숫자 + 아래 참여자 줄(모양·이름·별 수·남은 시간). `?kiosk=1`이면 도구 숨김·마우스 0.8초 뒤 숨김, '전체 화면' 버튼, 화면 꺼짐 막기. **체험 = 행성 뽑기(인형뽑기, 2026-11-19 소유자: '조이스틱으로 인형뽑기로 바꿔줘' — 처음 만든 '함께 그리는 별자리'는 없앰)**: 화면에 뽑기 기계 최대 3대(`MACHINES`, 쓰는 기계까지 왼쪽부터 보임, 기계 단위 1000×1300), 사람이 더 오면 줄 서기(`queue`, 최대 12명, 아래 '기다리는 사람'), 한 사람 기회 3번(`TRIES`)·한 번 조준 20초(`AIM`, 지나면 자동으로 잡기). 폰 조이스틱(좌우)으로 집게 이동 → '잡기' → 내려가 캡슐을 감싸 잡고 올라와 왼쪽 배출구(OUT)로 옮겨 놓음. 캡슐(반지름 `R`, 22개, 12개 아래로 줄면 위에서 채움)은 간단한 물리(중력·충돌·칸막이 벽). **캡슐 안 = 지금 열린 ARTMOS 전시 행성**(`loadLocalData()`의 열린 전시, 행성 그림 `planetURL`, 무작위). **결과는 집게가 닫히는 순간 정하고 움직임이 그걸 연기함**(2026-11-19 소유자: '무조건 뽑히면 안 됨, 모션도 살리기'): `grip`(캡슐 중심과 집게 머리의 가로 차이)이 .28 미만이면 헛손질(`miss`, 빈 집게로 오므림·캡슐이 옆으로 밀림), 아니면 `winChance(grip)`(.85 이상 42% · .6 이상 24% · 그 밖 10%)로 `win`, 실패면 `slipRise`(올라가다 0.5초 떨리며 헐거운 집게에서 빠짐) 또는 `slipCarry`(옮기다 멈칫·떨림 뒤 떨어짐, 칸막이 너머 배출구로는 안 떨어지게 위치 보정). 실패할 결과는 집게를 덜 오므림(`shut` .72). 결정은 `m.decided` 깃발로 한 번만(예전에 첫 프레임이 20ms를 넘는 느린 화면에선 결과가 안 정해지던 버그 고침). 시험 14번에 21%. 움직임: 줄 흔들림(가속·멈춤에 반대로 흔들렸다 잦아듦, `sw`·`hx`), 내려갈 때 점점 빨라지고 닿으면 살짝 튐, 올라갈 때도 천천히 출발, 배출구에 들어가면 불꽃·테두리 빛. 떨어진 캡슐이 더미 위를 굴러 칸막이를 넘어가면 진짜 '얻어걸림' 승리로 침. 폰에는 단계마다 글(내려가요·오므리는 중·잡았다!·앗 흔들려요·미끄러졌어요·헛손질)과 진동, 결과에 이유(놓쳤다!/아깝다!). `#debug`면 `__scr.machines[0].hist`에 최근 결과. 뽑으면 기계 테두리가 빛나고 '뽑았다!'·알림. **결과는 그 폰에만**: 포스터(`assets/posters/<id>-poster-s.webp`)·번호·제목·작가 + **'이 전시 보러 가기'**(웹은 그 전시 주소로, 앱 안이면 `artmos:open-exhibit` → `app.js`가 그 전시를 엶) + '다음 기회'(`next`) → 기회를 다 쓰면 '내가 뽑은 행성' 목록·'다시 줄 서기'(`again`)·'나가기'. 실제 경품(물건·돈)은 없음 — 실물 경품을 걸면 경품 관련 법·운영 규칙을 따로 확인할 것. 큰 화면 QR·숫자 카드는 오른쪽 아래. **휴대폰** `remote.html`: 앱 설치 없이 QR(`remote.html?c=숫자`)로 들어오거나 앱 스크린 탭에서. 숫자·이름 → 연결 → (줄 서기) → 가로 조이스틱(밀어서, 기본) / 기울여서(누른 때 자세가 가운데, `sensors.js` tiltX) + 큰 '잡기' 버튼(잡는 동안 잠김) → 결과. 앱 안이면(`?app=1`) 상단 바를 상태 표시줄 아래로(`--sat`, 빛쌀과 같은 방법), 나가기는 `artmos:close-exhibit`. **연결** `screen-link.js`: Supabase Realtime 브로드캐스트(기존 프로젝트·공개 publishable 키, 서버에 저장 안 함). 통로 `artmos-scr-<숫자>`(폰이 join, 화면 presence로 같은 숫자 쓰는 화면이 있으면 숫자를 바꿈) + 폰마다 `artmos-scr-<숫자>-<pid>`(입력·결과는 여기만 → 다른 폰에 안 감). 폰은 바뀔 때만 초당 15번까지 입력(-1~1 좌우 속도), 3초마다 ping, 화면은 3초마다 hb. 10초 소식 없으면 나간 것. `?local=1`이면 같은 브라우저 창끼리 BroadcastChannel(인터넷 없이 시험: `screen.html?local=1` 열고 QR 주소에 local=1이 붙음). **QR**은 `js/qr.js`가 직접 만듦(라이브러리 없음, 오류 정정 M·버전 1~6, OpenCV로 읽기 확인). 아직 한국어만. `#debug`면 `window.__scr`·`window.__rmt` |
 | `js/sakamoto-lab.js` | **A-004 async(류이치 사카모토) 센서 소리 실험 4가지** — 블록 type `async`(어긋난 박자: 일곱 추가 조금씩 다른 박자로 울림, 기울이면 더 어긋남·흔들면 다시 맞춤·엎으면 고요·추를 눌러 끄고 켜기), `rain`(빗소리: 기울여 바람·빗줄기, 누르면 빗방울 음, 엎어 두거나 버튼으로 양동이 속 금속 울림), `forest`(세계의 소리 360°: 시냇물·새·바람과 나무·빙하 물방울·먼 피아노, 나침반으로 몸을 돌리면 바라보는 쪽 소리가 커짐·앞으로 기울이면 가까이, PC는 끌기·소리 점 누르기), `silence`(고요: 엎어 두거나 버튼/스페이스를 10초 누르면 라(A) 한 음과 'Ars longa, vita brevis'). 모두 실시간 합성, 화면에 보일 때만 소리·그림. 블록은 `data/cells.json`에 `extra: true`, order 4.5/5.5/5.7/8.5로 있고, `data.js`가 시트에 같은 종류가 없으면 끼워 넣음. 번역은 `data/i18n.json`의 `c004:4.5` 등 |
 | `js/cell-mobile.js` | 전시 페이지 모바일 전용(휴대폰에서만 불러옴): 지금 블록에서 할 수 있는 동작 안내 칩, 타임라인·단계 진동, 끝 블록 돌리기→다음 행성, 모바일 문구 번역(`WORDS`) |
